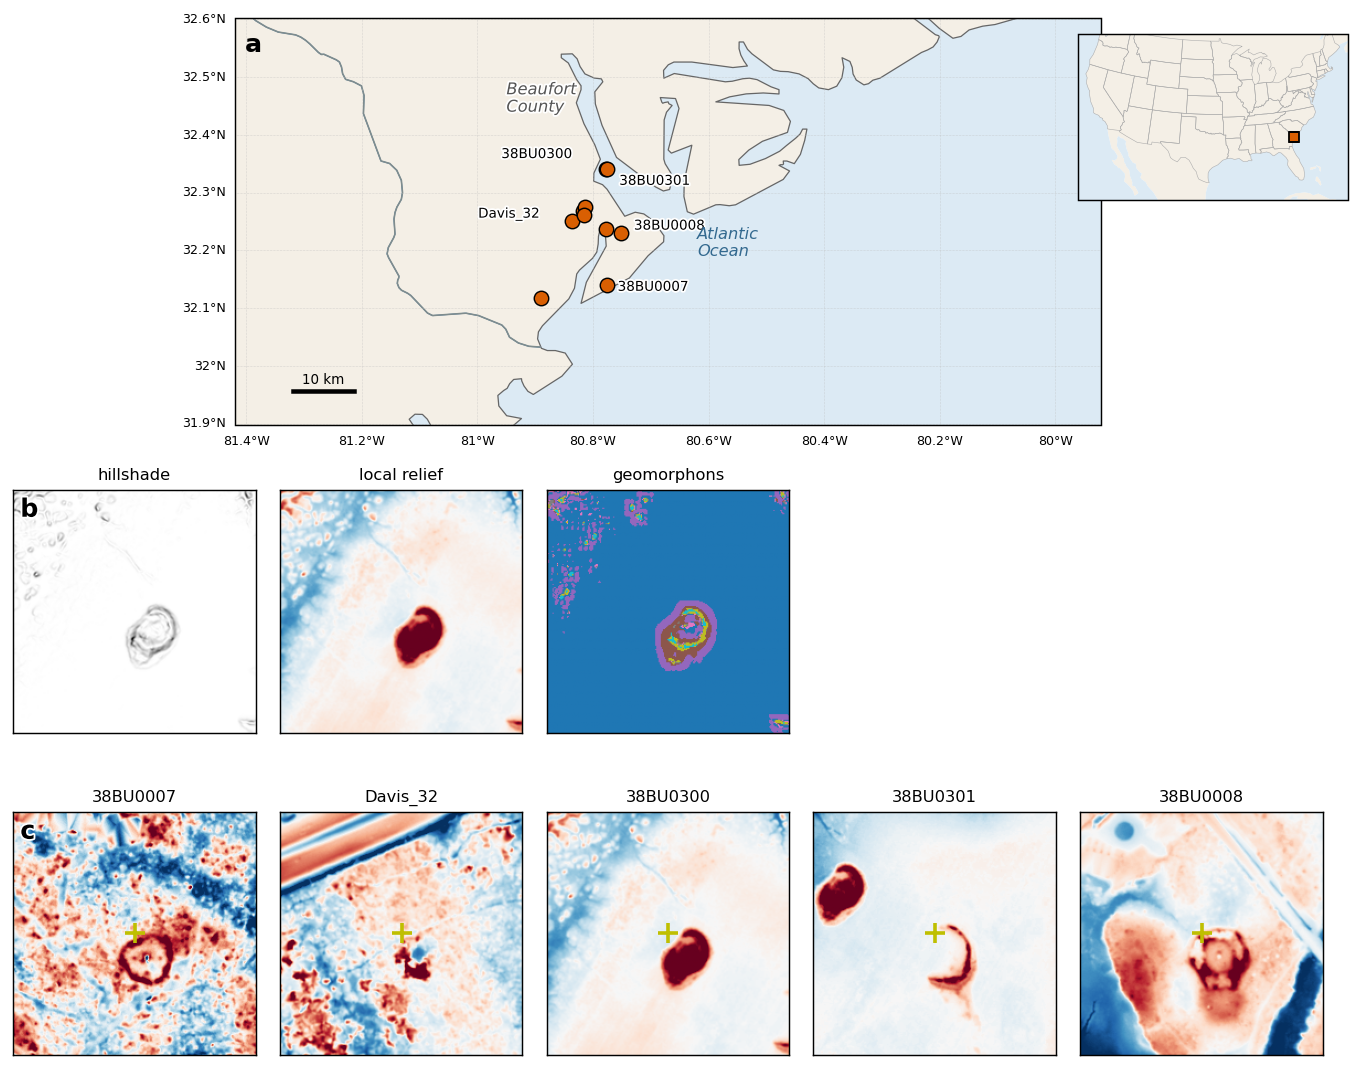
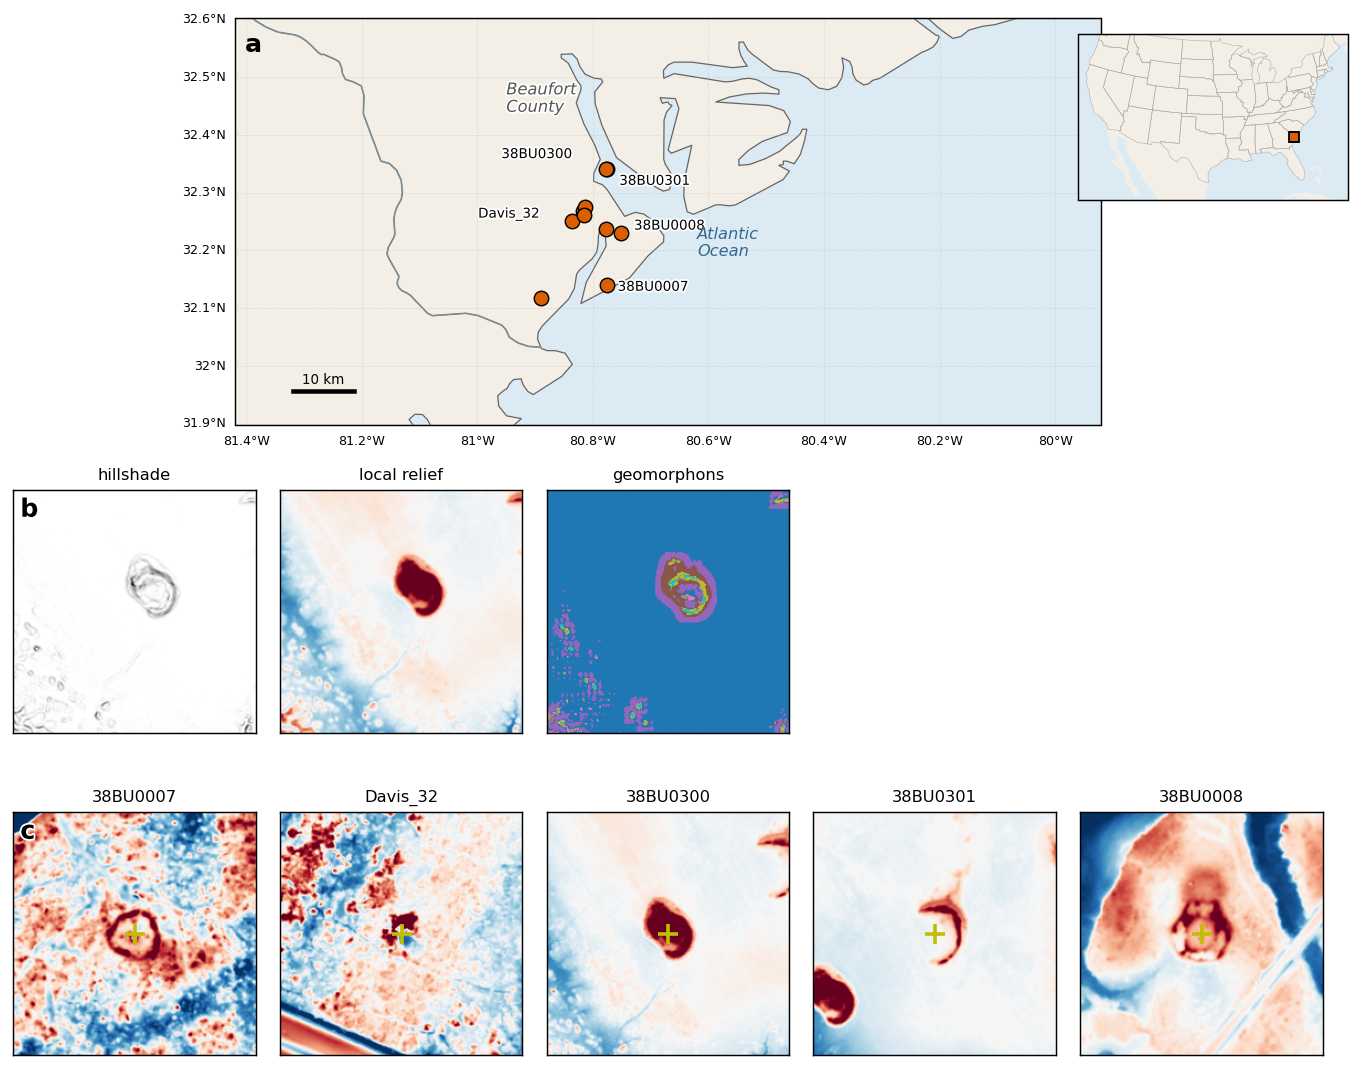
Sync manuscript + figures scored against hand-corrected gold; gen_fig6 env-var gold

diff --git a/docs/MANUSCRIPT.md b/docs/MANUSCRIPT.md
@@ -10,7 +10,7 @@
 
 ## Abstract
 
-Archaeological survey in the Yazoo Basin is hard for four reasons: mound relief is often under half a meter; modern earthworks mimic it; the area spans thousands of square kilometers; and supervised detectors need labeled examples that a finite archaeological record cannot supply. We describe a **label-free** workflow that needs no labeled examples from the target landscape. A geomorphon classifier reduces the bare-earth DEM to landform types, a deterministic detector extracts compact candidates, and a *False Positive Shield* screens them against land cover, linearity, and mapped modern features. A vision-language model fine-tuned on New York State LiDAR serves as an interpretation layer. The detector, which has no training set, recovers 31 of 35 cataloged mounds within a 30 m tolerance. On a field-verified set, neither shape nor land-cover rules separate pre-European from modern earthworks; giving the model a wide context view roughly doubles its pooled rejection of modern earthworks across three replicates, a suggestive but not yet stable gain, and the only measured one. The representation transfers with no retraining: coastal South Carolina shell rings appear as raised annuli in the same public product, though a decoy-point control shows a first ring detector performs at chance, so the transfer holds for the representation, not yet for detection. Precision on new candidates is not measured, and canopy can hide even a 17 m mound. We present the workflow as a sensitivity and screening study and as a demonstration that label-free, zero-shot survey scales to a finite archaeological record.
+Archaeological survey in the Yazoo Basin is hard for four reasons: mound relief is often under half a meter; modern earthworks mimic it; the area spans thousands of square kilometers; and supervised detectors need labeled examples that a finite archaeological record cannot supply. We describe a **label-free** workflow that needs no labeled examples from the target landscape. A geomorphon classifier reduces the bare-earth DEM to landform types, a deterministic detector extracts compact candidates, and a *False Positive Shield* screens them against land cover, linearity, and mapped modern features. A vision-language model fine-tuned on New York State LiDAR serves as an interpretation layer. The detector, which has no training set, recovers 28 of 34 hand-verified mound centers (82%) within a 30 m tolerance. On a field-verified set, neither shape nor land-cover rules separate pre-European from modern earthworks; giving the model a wide context view roughly doubles its pooled rejection of modern earthworks across three replicates, a suggestive but not yet stable gain, and the only measured one. The representation transfers with no retraining: coastal South Carolina shell rings appear as raised annuli in the same public product, though a decoy-point control shows a first ring detector performs at chance, so the transfer holds for the representation, not yet for detection. Precision on new candidates is not measured, and canopy can hide even a 17 m mound. We present the workflow as a sensitivity and screening study and as a demonstration that label-free, zero-shot survey scales to a finite archaeological record.
 
 
 ## 1. Introduction
@@ -120,24 +120,26 @@ The interpretation layer adapts a general vision-language model to terrain reaso
 
 We assembled a reference set ("gold list") of 35 mounds in the Yazoo Basin. They are identified by their **Lower Mississippi Survey grid-quadrat designations** (for example, 18-L-7 and 21-M-11, the survey-grid system of Phillips, Ford, and Griffin 1951 and Phillips 1970). These are not Smithsonian trinomials, which for Mississippi begin with 22 (as in the paper's own 22-Yz-557). The coordinates are legacy positions compiled from prior surveys. Their positional accuracy is not documented uniformly, and it is large in places. Section 3.5 shows one catalog point lying about 200 m from the nearest relief. This bounds how the agreement statistics below should be read. For each mound, the search procedure downloads a DEM, computes geomorphons, runs the single-scale detector of Section 2.2, and records whether any candidate falls within 30 m of the catalog coordinate.
 
-We report the evaluation in the project's analytical CRS, UTM Zone 15N, so that all distances are in true ground meters. Recall against a legacy catalog depends on the match tolerance, because the catalog coordinates carry their own positional error, so we report it as a function of tolerance rather than as a single number (Table 1). At a 30 m tolerance, the detector recovers **31 of 35 mounds (89%)**, at a median centroid-to-catalog offset of 5.1 m. Recall falls at tighter tolerances, from 80% at 25 m to 51% at 10 m, a decline that measures catalog positional error as much as detector centering. Appendix B gives the full tolerance curve, the four mounds missed at 30 m, and the matching protocol.
+Legacy catalog coordinates carry their own positional error, and agreement with them is not the same thing as recall. We therefore hand-corrected the reference set before scoring: using a web interface that presents each site's hillshade and local relief over a 500 m window, one of us (CPL) marked the center of the overall feature at every site, flagged features not visible in the bare-earth surface, and recorded the shift from the catalog point. The median catalog error is 2.9 m, but the tail is long: one coordinate (19-M-2) was 199 m off and another (21-M-1) 107 m. One mound (22-N-11_m3) has no visible expression and is excluded, leaving 34.
+
+We report the evaluation in the project's analytical CRS, UTM Zone 15N, so that all distances are in true ground meters. Against the hand-corrected centers, the detector recovers **28 of 34 mounds (82%) at a 30 m tolerance**, at a median centroid-to-center offset of 6.1 m (Table 1). Recall falls at tighter tolerances, to 44% at 10 m; part of that residual spread is a convention difference, because the detector reports the centroid of its geomorphon peak mask, which on a large mound need not coincide with the geometric center. The correction also exposed something a tolerance analysis cannot: two of the original catalog's apparent hits were spurious. At 19-M-2 and 21-M-1 the detector had matched features 5 and 18 m from the erroneous catalog points, which lie 199 and 107 m from the actual mounds; against the true centers those matches are 48 and 35 m off. Agreement with a bad coordinate can look like recall. Appendix B gives the tolerance curve against the original catalog for comparison, the six mounds missed at 30 m, and the matching protocol.
 
 These distances are **in agreement with a legacy catalog, not positional accuracy.** Both the detected centroid and the catalog point carry error. Section 3.5 shows one catalog coordinate lying about 200 m from the nearest relief. The offset statistics confirm that detections land on the mapped feature. They do not establish sub-meter accuracy against ground truth.
 
 | Match tolerance (UTM 15N) | Recall | Recovered / total |
 |---|---|---|
-| 10 m | 51% | 18 / 35 |
-| 15 m | 60% | 21 / 35 |
-| 20 m | 71% | 25 / 35 |
-| 25 m | 80% | 28 / 35 |
-| **30 m** | **89%** | **31 / 35** |
-| Offset of recovered (median / mean / max) | 5.1 / 9.4 / 29.4 m | n = 31 |
+| 10 m | 44% | 15 / 34 |
+| 15 m | 56% | 19 / 34 |
+| 20 m | 68% | 23 / 34 |
+| 25 m | 76% | 26 / 34 |
+| **30 m** | **82%** | **28 / 34** |
+| Offset of recovered (median / mean / max) | 6.1 / 10.3 / 29.3 m | n = 28 |
 
-*Table 1. Detector recall against the reference mound set, as a function of match tolerance, computed in UTM Zone 15N (true meters). Recall is for the deterministic single-scale geomorphon detector (Section 2.2); it is agreement with a legacy catalog, not positional accuracy. The strong dependence on tolerance reflects the catalog's own positional uncertainty as much as the detector's centering. Four mounds miss at 30 m (22-M-1, 22-N-13_m5, and the paired 22-N-11_m2 / 22-N-11_m3); they are low-profile or fall within tight clusters where a neighbor dominates the ranking. Recall is from a centered-window, nearest-of-ten match (see text).*
+*Table 1. Detector recall against hand-corrected feature centers, as a function of match tolerance, computed in UTM Zone 15N (true meters). Recall is for the deterministic single-scale geomorphon detector (Section 2.2), scored against centers marked by an analyst on the relief imagery (center-of-overall-feature convention); one catalog mound with no visible expression (22-N-11_m3) is excluded. Six mounds miss at 30 m: 22-M-1 (54 m), 22-N-13_m5 (51 m), 19-M-2 (48 m), 22-N-11_m2 (41 m), 22-N-21_m2 (41 m), and 21-M-1 (35 m); they are low-profile, sit in tight clusters where a neighbor dominates the ranking, or were exposed as spurious catalog matches by the correction (see text). Recall is from a centered-window, nearest-of-ten match (Appendix B.1).*
 
-Figure 6 makes the recovery concrete, with one panel per distinct site. Each panel is the shaded relief at a cataloged mound (cyan star). In every case, the detector's centroid (green circle) lands on it, and the mound appears as a compact rise. The detector also resolves the individual mounds within the tight 22-N-13 and 22-N-9 groups (Appendix B). The offset histogram shows the consistency. The modal recovery is within a few meters of the mapped point, and the tail out to about 29 m corresponds to mounds sitting against natural levees or drainage, where the geomorphon footprint is pulled off the summit.
+Figure 6 makes the recovery concrete, with one panel per distinct site. Each panel is the shaded relief at a mound, with the hand-corrected center marked (cyan star). In every case, the detector's centroid (green circle) lands on it, and the mound appears as a compact rise. The detector also resolves the individual mounds within the tight 22-N-13 and 22-N-9 groups (Appendix B). The offset histogram shows the consistency. The modal recovery is within a few meters of the mapped point, and the tail out to about 29 m corresponds to mounds sitting against natural levees or drainage, where the geomorphon footprint is pulled off the summit.
 
-![**Figure 6. Recovery of cataloged mounds (UTM Zone 15N, true meters).** Eight recovered mounds, one per distinct site, spanning the offset range from 0 m to the ~27 m tolerance edge. In each shaded-relief panel the detector's centroid (green circle) falls on or near the cataloged mound (cyan star, at tile center). The histogram shows the centroid-to-catalog offset for all 31 recovered mounds; summary statistics are in Table 1.](figures/fig_refind_known_mounds.png)
+![**Figure 6. Recovery of mounds against hand-corrected centers (UTM Zone 15N, true meters).** Eight recovered mounds, one per distinct site, spanning the offset range. In each shaded-relief panel the detector's centroid (green circle) falls on or near the hand-corrected feature center (cyan star, at tile center). The histogram shows the centroid-to-center offset for all 28 recovered mounds; summary statistics are in Table 1.](figures/fig_refind_known_mounds.png)
 
 One point bounds the interpretation of these numbers. The recall measures the **geomorphon detector**, the detection stage of the workflow, against a catalog of known mounds. It is a measure of sensitivity, not of end-to-end precision. The fraction of *reported* candidates that are real is a separate and harder question. We take it up in Section 3.2.
 
@@ -203,17 +205,17 @@ We take Davis's (2018, 2019) catalog of ten shell-ring and mound sites in Beaufo
 
 The ten sites lie on the tidal coast of Beaufort County, South Carolina (Figure 11a), and the ring morphology is recoverable there in the same public product and representation (Figure 11b): the clear rings are visible as raised annuli of Ridge/Shoulder/Spur geomorphons around lower centers, in a region and feature class the pipeline never saw. That is the transfer result, and it belongs to the representation.
 
-An automated ring detector is a different matter, and we report it with its null. A first hand-tuned structural detector (a per-sector rule requiring a raised, partly closed annulus around a depressed center, with every constant tuned while inspecting these same ten sites) localizes a ring near the catalog point at five of ten sites under a strict rule and seven of ten under a containment rule (Table B2). Those counts sound respectable until they are measured against chance. We froze the detector and ran the identical procedure at forty decoy points, each 500 m from a catalog site in the same landscape: the decoys scored 52% strict and 65% containment, statistically indistinguishable from the 50% and 70% at the true sites. The coastal plain is dense with ring-scoring relief (hammocks, oxbow rims, spoil), and the detector fires nearly everywhere, so the hit counts carry no evidence of detection skill. We report them, with the null, as a caution: containment-style metrics on centered windows must be checked against decoys before they are read as recall. What stands after the control is the qualitative transfer (Figure 11b), the honest per-site accounting (Table B2), and the finding that a working ring *detector*, as opposed to a ring-revealing representation, does not yet exist. Several coordinates also sit in tidal marsh with no recoverable ring, the coastal analog of the canopy that hides Lake George.
+An automated ring detector is a different matter, and we report it with its null. The ring coordinates were hand-corrected to feature centers under the protocol of Section 3.1, and the analyst judged all ten rings visible in the public product. A first hand-tuned structural detector (a per-sector rule requiring a raised, partly closed annulus around a depressed center, with every constant tuned while inspecting these same ten sites) localizes a ring within the rim-crest radius of the corrected center at four of ten sites, and within the ring footprint at seven of ten (Table B2); four detections sit 7 to 18 m from the true centers. Those counts sound respectable until they are measured against chance. We froze the detector and ran the identical procedure at forty decoy points, each 500 m from a catalog site in the same landscape: the decoys scored 52% strict and 65% containment, and a random point has a detected ring within 20 m 37.5% of the time, so four of ten within 20 m is what chance predicts. The coastal plain is dense with ring-scoring relief (hammocks, oxbow rims, spoil), and the detector fires nearly everywhere, so the hit counts carry no evidence of detection skill. We report them, with the null, as a caution: containment-style metrics on centered windows must be checked against decoys before they are read as recall. What stands after the control is the qualitative transfer (Figure 11b), the honest per-site accounting (Table B2), and the finding that a working ring *detector*, as opposed to a ring-revealing representation, does not yet exist. The detector's failures are its own: the correction pass shows the rings are there.
 
 The discrimination step does not transfer for free, which is itself informative. The shield's land-cover layer rejects none of the ring candidates, because both real shell rings and the natural coastal rises they must be told apart from sit on Wetlands and Forest, not on Water or Developed land. Detection, the universal-morphology part, generalizes across feature type and region; discrimination, the contextual part, needs a signal specific to the setting. This is the same lesson as Section 3.6: morphology finds earthworks, and the shield, not the morphology, does the harder filtering. Read against a six-panel image of each ring, the New-York-trained model calls all five clear rings earthworks despite never seeing a shell ring or coastal terrain in training. This must be weighted by the model's base acceptance rate: in Section 3.6 it accepted 23 of 28 sites of every kind, and at that rate five of five has a probability near 0.4 by chance alone. The reading is consistent with the model responding to ring morphology, but it is weak evidence and it supports universality, not discrimination.
 
-![**Figure 11. Generalization to coastal South Carolina shell rings, with no retraining.** (a) The ten catalogd shell-ring sites (orange) on the tidal coast of Beaufort County, South Carolina; the inset locates the area within the conterminous United States. (b) The shell-ring structural signature at site 38BU0300 in public USGS 3DEP bare earth (UTM 17N): a raised annular rim of Ridge/Shoulder/Spur geomorphons enclosing a lower, flat center, captured by the same universal representation used for the Yazoo mounds. (c) Local relief at five catalogd shell rings (yellow cross = catalog coordinate). The coordinate marks a spot on or beside the ring rather than its center; the point falls within the detected rim-crest radius at five of ten sites, and within the ring footprint (crest plus a 15 m rim allowance) at seven of ten (Table B2).](figures/fig_shell_rings.png)
+![**Figure 11. Generalization to coastal South Carolina shell rings, with no retraining.** (a) The ten cataloged shell-ring sites (orange) on the tidal coast of Beaufort County, South Carolina; the inset locates the area within the conterminous United States. (b) The shell-ring structural signature at site 38BU0300 in public USGS 3DEP bare earth (UTM 17N): a raised annular rim of Ridge/Shoulder/Spur geomorphons enclosing a lower, flat center, captured by the same universal representation used for the Yazoo mounds. (c) Local relief at five shell rings, with the hand-corrected ring center marked (yellow cross). Against corrected centers the detector localizes four of ten rings within 7 to 18 m of the center, which a decoy-point control shows is the chance expectation (Table B2).](figures/fig_shell_rings.png)
 
 ## 4. Discussion
 
 The result we most want to foreground is not the recall number itself but what it is achieved *without*. Every quantified detection in this study is produced without any labeled training examples from the Delta. The geomorphon detector is deterministic, and the interpretation layer never saw a Yazoo mound. That a label-free pipeline recovers most of a known-mound catalog is the proof of concept for the approach this paper argues for. In a discipline whose training signal is finite and cannot be manufactured, separating where a model learns from where it is applied is not just convenient. Where the labeled examples do not exist, it may be the only approach that scales. A supervised detector is bounded by the number of known examples available for a region. A zero-shot, foundation-model approach is bounded instead by the supply of general terrain the world affords, which is very large. The evidence here does not prove that the fine-tuned interpretation model transfers well. Section 3.6 measures it, and the answer is that it reads shape but does not separate ancient from modern earthworks. The evidence establishes that the label-free architecture meets the first bar. It recovers real mounds it was never trained to see. For a field that has pursued automated detection through region-specific supervised training, we think that finding matters most.
 
-The workflow also automates the first pass of large-scale survey. A regional scan that would take an analyst weeks of hillshade inspection runs in hours. Because the detector reasons about shape rather than a single illumination, it surfaces low-profile features that fixed-angle review tends to miss. Its validated core is the **sensitivity of the detector**. At a 30 m tolerance, it recovers about nine in ten cataloged mounds, in true meters, and it resolves the individual mounds within the tight 22-N-13 and 22-N-9 clusters (Section 3.1, Figure 6). We are careful not to overstate this. Recall falls at tighter tolerances (Table 1). The metric is agreement with an imperfect legacy catalog rather than positional truth. The detector run here is the single-scale form of Section 2.2, not the multi-scale form the engine also implements. Sensitivity of this kind is the property a survey tool must earn before its candidates are worth an analyst's time and, later, a field team's time. It is necessary but not sufficient, as Section 3.2 stresses, because it says nothing about precision.
+The workflow also automates the first pass of large-scale survey. A regional scan that would take an analyst weeks of hillshade inspection runs in hours. Because the detector reasons about shape rather than a single illumination, it surfaces low-profile features that fixed-angle review tends to miss. Its validated core is the **sensitivity of the detector**. At a 30 m tolerance, it recovers about four in five hand-verified mound centers, in true meters, and it resolves the individual mounds within the tight 22-N-13 and 22-N-9 clusters (Section 3.1, Figure 6). We are careful not to overstate this. Recall falls at tighter tolerances (Table 1). The metric is agreement with an imperfect legacy catalog rather than positional truth. The detector run here is the single-scale form of Section 2.2, not the multi-scale form the engine also implements. Sensitivity of this kind is the property a survey tool must earn before its candidates are worth an analyst's time and, later, a field team's time. It is necessary but not sufficient, as Section 3.2 stresses, because it says nothing about precision.
 
 The case studies then show how the shield handles that sensitivity. They are demonstrations of behavior, not yet precision measurements, and they bound the method from three sides. Jaketown shows the shield stripping the modern fabric of a town-spanning tile, and the survivor screen shows where a positive-relief gate is still needed. The cropland scan shows it doing the harder job the method is meant to do. It keeps compact mounds as islands in active fields while rejecting the plow lines and dredge spoil that share that land cover. Lake George marks the outer limit, where closed canopy removes even a 17 m mound from the public bare-earth surface.
 
@@ -228,7 +230,7 @@ The honest accounting in Section 3 is itself a methodological point. An automate
 
 **The detector evaluated here is a single-scale approximation.** Section 3's results use a single-scale, elevation-referenced geomorphon classifier (Section 2.2), not the multi-scale, angle-thresholded, persistence-scored method that the engine also implements and that the introduction motivates. Integrating multi-scale persistence into the detection path and rerunning the Section 3 evaluation with it are priorities. The single-scale 0.3 m flatness floor may suppress the sub-0.5 m mounds we emphasize. We expect the multi-scale form to change the recovery of the faintest features and most likely improve it.
 
-**Baseline comparison (now measured).** A local-relief blob detector run under the identical protocol recovers 22 of 35 mounds at 30 m against the geomorphon detector's 31 of 35 (Appendix B.1), so the geomorphon representation, not the protocol, carries the margin. A comparison against an object-based rule set remains worthwhile.
+**Baseline comparison (now measured).** A local-relief blob detector run under the identical protocol against the corrected centers recovers 22 of 34 mounds at 30 m against the geomorphon detector's 28 of 34 (Appendix B.1), so the geomorphon representation, not the protocol, carries the margin. A comparison against an object-based rule set remains worthwhile.
 
 **Reproducibility bookkeeping is incomplete.** Different reported numbers were produced by different scripts and, at present, two coordinate systems (Section 2.1). A single table mapping each number to its script, detector variant, parameters, CRS, and data artifact should accompany submission. One detector parameter needs documenting. It is an internal aspect-ratio down-weighting (aspect > 4.0), distinct from the shield's 4.5/3.0 linearity thresholds. Stating it keeps the two linearity tests from being conflated.
 
@@ -238,7 +240,7 @@ The honest accounting in Section 3 is itself a methodological point. An automate
 
 **Noise map coverage.** The modern-feature layer is only as good as the quadrangle coverage and the optical character recognition behind it, and it must be generated per area of interest. Its recall against actual canals and levees has not been quantified.
 
-**Coordinate error is catalog agreement, not accuracy.** The offsets (median 5.1 m, mean 9.4 m in UTM 15N; Table 1) measure agreement between detected centroids and a legacy catalog whose own positions carry uncertainty, in one case about 200 m (Section 3.5). They are not an independent benchmark for accuracy. The dependence of recall on match tolerance (Table 1) follows from that catalog uncertainty. Characterizing the catalog's positional error relative to an independently surveyed subset would allow recall and accuracy to be reported against a known target.
+**Catalog error is now measured, and it matters.** Hand-correcting every reference coordinate against the relief (Section 3.1) put a number on the legacy catalog's error: median 2.9 m, maximum 199 m. Two apparent detector hits were artifacts of the largest errors, and one cataloged mound has no visible expression at all. Recall in this paper is therefore reported against corrected feature centers rather than catalog agreement. The residual centroid-to-center offsets (median 6.1 m; Table 1) mix detector centering with the difference between a peak-mask centroid and a geometric center, which a centroid-to-outline comparison could separate.
 
 **Zero-shot transfer.** Transfer from New York terrain to the Delta is the design's central bet. On the internal benchmark, the deployed V9.1 (checkpoint-1250) model scores 76.2% on the zero-shot category. This is the capability we trust least, and it is measured on a proxy benchmark rather than on Delta ground truth. Independent Delta ground truth beyond the reference set is needed to validate the reference set.
 
@@ -248,7 +250,7 @@ The honest accounting in Section 3 is itself a methodological point. An automate
 
 ## 6. Conclusion
 
-We have described and evaluated a reproducible workflow for screening bare-earth LiDAR for earthen mounds in a heavily modified alluvial landscape, and we have tried to report it as we ran it. It has two measured strengths. The first is a geomorphon detector that recovers about 9 in 10 cataloged mounds within a 30 m tolerance in true meters. The second is an auditable context shield that separates compact prehistoric shapes from the linear and developed fabric of the modern Delta, shown from the agricultural islands it preserves to the levees it rejects. We tested age discrimination three ways in Section 3.6. Neither shape, read by the model, nor the shield's active land-cover and linearity rules separate pre-European from modern earthworks; what helps is context, and the model given a wide context view shows the only measured gain, roughly doubling pooled rejection across three replicates, though not yet stably. Discrimination remains the open problem, and context is where it will be solved. The boundaries are stated in plain terms. Precision on new candidates is not measured here, and no candidate is field-verified. The evaluated detector is a single-scale variant of the multi-scale method envisioned in the workflow. Closed canopy can remove even a large mound from the public bare-earth product. Turning archaeological screening into a reproducible pipeline is feasible, and the pace of landscape change in the Delta makes it more needed each year. The remaining work is an agenda we have tried to make explicit. It includes a precision evaluation on a representative labeled tile, integration of the multi-scale detector, stronger structural discrimination in the interpretation layer, and field verification.
+We have described and evaluated a reproducible workflow for screening bare-earth LiDAR for earthen mounds in a heavily modified alluvial landscape, and we have tried to report it as we ran it. It has two measured strengths. The first is a geomorphon detector that recovers about 4 in 5 hand-verified mound centers within a 30 m tolerance in true meters. The second is an auditable context shield that separates compact prehistoric shapes from the linear and developed fabric of the modern Delta, shown from the agricultural islands it preserves to the levees it rejects. We tested age discrimination three ways in Section 3.6. Neither shape, read by the model, nor the shield's active land-cover and linearity rules separate pre-European from modern earthworks; what helps is context, and the model given a wide context view shows the only measured gain, roughly doubling pooled rejection across three replicates, though not yet stably. Discrimination remains the open problem, and context is where it will be solved. The boundaries are stated in plain terms. Precision on new candidates is not measured here, and no candidate is field-verified. The evaluated detector is a single-scale variant of the multi-scale method envisioned in the workflow. Closed canopy can remove even a large mound from the public bare-earth product. Turning archaeological screening into a reproducible pipeline is feasible, and the pace of landscape change in the Delta makes it more needed each year. The remaining work is an agenda we have tried to make explicit. It includes a precision evaluation on a representative labeled tile, integration of the multi-scale detector, stronger structural discrimination in the interpretation layer, and field verification.
 
 ## Acknowledgments
 
@@ -342,9 +344,11 @@ This appendix holds the detailed statistics summarized in Sections 3.1, 3.2, and
 
 ### B.1 Recall: tolerance curve, matching protocol, and missed mounds (Section 3.1)
 
-DEMs were retrieved for all 35 mounds. Recall as a function of match tolerance is: 51% at 10 m (18/35), 60% at 15 m (21/35), 71% at 20 m (25/35), 80% at 25 m (28/35), and 89% at 30 m (31/35). Among the 31 recovered mounds the centroid-to-catalog offset has a median of 5.1 m and a mean of 9.4 m, with a maximum of 29.4 m. The detector is deterministic, so a repeat run on re-fetched DEMs returns the same result; this establishes pipeline determinism, not independent robustness. Four mounds are missed at the 30 m tolerance: 22-M-1 (nearest candidate 74 m), 22-N-13_m5 (51 m), and 22-N-11_m2 and 22-N-11_m3 (both about 43 m). The last two belong to a single site whose two catalog points fall in a tight cluster, where a neighboring feature dominates the candidate ranking; 22-M-1 and 22-N-13_m5 are low-profile features. The matching protocol is lenient: for each mound a 300 m tile is centered on the catalog point, the detector returns up to ten candidates, and a hit is scored if any of them falls within the tolerance. This is a best-case, centered-window sensitivity test rather than detection within an uncurated regional scan; a stricter single-best-candidate rule would make it harder.
+**Coordinate correction protocol.** Every reference coordinate (the 35 Yazoo mounds and the 10 South Carolina shell rings of Section 3.7) was hand-verified before scoring. A web interface presents each site over a 500 m window in three registered layers (multidirectional hillshade, wide local relief, fine local relief); the analyst (CPL) clicks the center of the overall feature, flags sites with no visible expression, and can attach notes. Clicks are converted to UTM and WGS84 and saved with the shift from the catalog point; originals are never modified. Catalog error across the 44 visible sites: median 2.9 m, mean 16.0 m, maximum 198.6 m (19-M-2), with 21-M-1 at 107.3 m and 22-M-1 at 38.0 m. One mound, 22-N-11_m3, has no visible expression and is excluded from scoring.
 
-**Baseline comparison.** To test whether the geomorphon representation carries the result, we ran a simple local-relief baseline under the identical protocol: the DEM minus a 40 m Gaussian surface, with the ten strongest local maxima as candidates. The baseline recovers 22 of 35 mounds at the 30 m tolerance (16 at 10 m), against the geomorphon detector's 31 of 35 (18 at 10 m). The geomorphon representation therefore contributes nine additional recoveries over a plain relief-peak detector on the same windows (`scripts/lrm_baseline.py`).
+**Recall against corrected centers** (Table 1): 44% at 10 m (15/34), 56% at 15 m (19/34), 68% at 20 m (23/34), 76% at 25 m (26/34), and 82% at 30 m (28/34); the 28 recovered offsets have median 6.1 m, mean 10.3 m, maximum 29.3 m. The detector is deterministic, so a repeat run on re-fetched DEMs returns the same result; this establishes pipeline determinism, not independent robustness. For comparison, agreement with the uncorrected catalog was 89% at 30 m (31/35, median 5.1 m); the difference is instructive. Two apparent catalog hits were spurious: at 19-M-2 and 21-M-1 the detector matched features 5 and 18 m from catalog points that lie 199 and 107 m from the actual mounds, and those matches sit 48 and 35 m from the true centers. One catalog miss (22-N-11_m3) was a data absence, not a detector failure. The six mounds missed against corrected centers are 22-M-1 (54 m), 22-N-13_m5 (51 m), 19-M-2 (48 m), 22-N-11_m2 (41 m), 22-N-21_m2 (41 m), and 21-M-1 (35 m); the first two are low-profile, 22-N-11_m2 sits in a tight cluster where a neighbor dominates the ranking, and 22-N-21_m2 is a borderline candidate that crossed the tolerance when the window recentered. The matching protocol is lenient: for each mound a 300 m tile is centered on the (corrected) point, the detector returns up to ten candidates, and a hit is scored if any of them falls within the tolerance. This is a best-case, centered-window sensitivity test rather than detection within an uncurated regional scan; a stricter single-best-candidate rule would make it harder. A residual convention difference also remains: the detector reports the centroid of its geomorphon peak mask, not the geometric center the analyst marks, which contributes several meters of offset on larger mounds.
+
+**Baseline comparison.** To test whether the geomorphon representation carries the result, we ran a simple local-relief baseline under the identical protocol against the corrected centers: the DEM minus a 40 m Gaussian surface, with the ten strongest local maxima as candidates. The baseline recovers 22 of 34 mounds at the 30 m tolerance (18 at 10 m), against the geomorphon detector's 28 of 34 (15 at 10 m). The geomorphon representation contributes six additional recoveries at 30 m over a plain relief-peak detector on the same windows, while the baseline is slightly better at the tightest tolerance, consistent with relief peaks centering on summits while geomorphon masks center on whole landforms (`scripts/lrm_baseline.py`).
 
 ### B.2 The positive-relief gate on Jaketown survivors (Section 3.2)
 
@@ -382,19 +386,19 @@ Because generation is not fully deterministic under vLLM batching even at temper
 
 The detector, per-site results, and gallery are released with the code (`scripts/shell_ring_test.py`). The hit rule has two forms. The strict rule scores a hit when the catalog point falls within the detected rim-crest radius R. The containment rule allows a 15 m rim half-width beyond the crest (offset <= R + 15 m), on the ground that a ring's footprint extends beyond its crest line; the allowance is stated because two hits depend on it. The protocol is lenient and in-sample, mirroring B.1: the 400 m window is centered on the catalog coordinate, the ring-center search is confined to 150 m of it, the nearest above-threshold candidate is selected, and every detector constant (sector coverage 0.4, closure 0.35, relief threshold 0.12 m, marsh percentile 20, score threshold 0.12) was tuned while inspecting these same ten sites. No held-out sites exist at n = 10. Table B2 gives the per-site accounting; the assessments are gallery-inspection judgments recorded in the released results file so they can be audited.
 
-*Table B2. Per-site shell-ring results (UTM 17N). Strict = point within rim-crest radius R; containment = within R + 15 m. One gold-list entry is labeled a mound; one site ID is listed as 32BU1227 and is likely a 38BU trinomial (South Carolina's state code is 38).*
+*Table B2. Per-site shell-ring results against hand-corrected ring centers (UTM 17N; correction protocol in B.1, all ten rings judged visible by the analyst). Strict = detection within the rim-crest radius R of the corrected center; containment = within R + 15 m. One gold-list entry is labeled a mound; one site ID is listed as 32BU1227 and is likely a 38BU trinomial (South Carolina's state code is 38).*
 
-| site | listed type | offset (m) | R (m) | strict | containment | assessment |
+| site | listed type | offset to corrected center (m) | R (m) | strict | containment | assessment |
 |---|---|---|---|---|---|---|
-| 38BU0007 | ring | 0.0 | 34 | yes | yes | clean ring |
-| 38BU0008 | ring | 36.1 | 43 | yes | yes | clean ring |
-| Davis_32 | ring | 18.0 | 37 | yes | yes | clean ring |
-| mound | mound (gold-list label) | 25.5 | 31 | yes | yes | clean detection; category mismatch for a ring detector |
-| 32BU1227 | ring (likely 38BU) | 25.0 | 50 | yes | yes | detection sits on a channel feature |
-| 38BU0301 | ring | 29.2 | 18 | no | yes | clear partial-arc ring; hit only via rim allowance |
-| Davis_35 | ring | 42.7 | 42 | no | yes | detection on a channel feature; hit only via rim allowance |
-| 38BU0348 | ring | 66.7 | 28 | no | no | no clear ring at the point |
-| 38BU0300 | ring | 147.1 | 16 | no | no | clear ring present; detector mis-localized |
-| Davis_2 | ring | 148.7 | 40 | no | no | no ring at the point (tidal marsh) |
+| 38BU0007 | ring | 7.1 | 18 | yes | yes | localized on the ring |
+| Davis_32 | ring | 7.1 | 16 | yes | yes | localized on the ring |
+| 38BU0301 | ring | 11.2 | 17 | yes | yes | localized on the ring |
+| Davis_35 | ring | 18.0 | 15 | no | yes | near-center; just outside the crest radius |
+| mound | mound (gold-list label) | 25.0 | 30 | yes | yes | clean detection; category mismatch for a ring detector |
+| 32BU1227 | ring (likely 38BU) | 40.3 | 32 | no | yes | detection off the feature |
+| 38BU0008 | ring | 55.2 | 54 | no | yes | oversized detection; hit only via footprint |
+| 38BU0348 | ring | 95.5 | 42 | no | no | detector failure at a visible ring |
+| 38BU0300 | ring | 119.3 | 19 | no | no | detector failure; clear ring mis-localized |
+| Davis_2 | ring | 146.0 | 40 | no | no | detector failure at a visible ring |
 
-Summary: strict five of ten; containment seven of ten; cleanly localized rings three, plus one clean detection at the mound-labeled site and one rim-allowance hit on a clear partial arc. Two containment hits sit on channel features and should not be read as rings. The catalog was compiled by the authors from the sites reported and detected in Davis et al. (2018, 2019) and associated records; the feature-type labels above follow the gold list.
+Summary against corrected centers: strict four of ten; containment seven of ten; four detections localize within 7 to 18 m of true centers, but a random point has a detected ring within 20 m 37.5% of the time (the decoy null), so four of ten is the chance expectation. The remaining failures are the detector's own, since the correction pass found all ten rings visible. The catalog was compiled by the authors from the sites reported and detected in Davis et al. (2018, 2019) and associated records; the feature-type labels above follow the gold list. Results against the uncorrected catalog points are released alongside (`shell_ring_results_catalog.csv`).